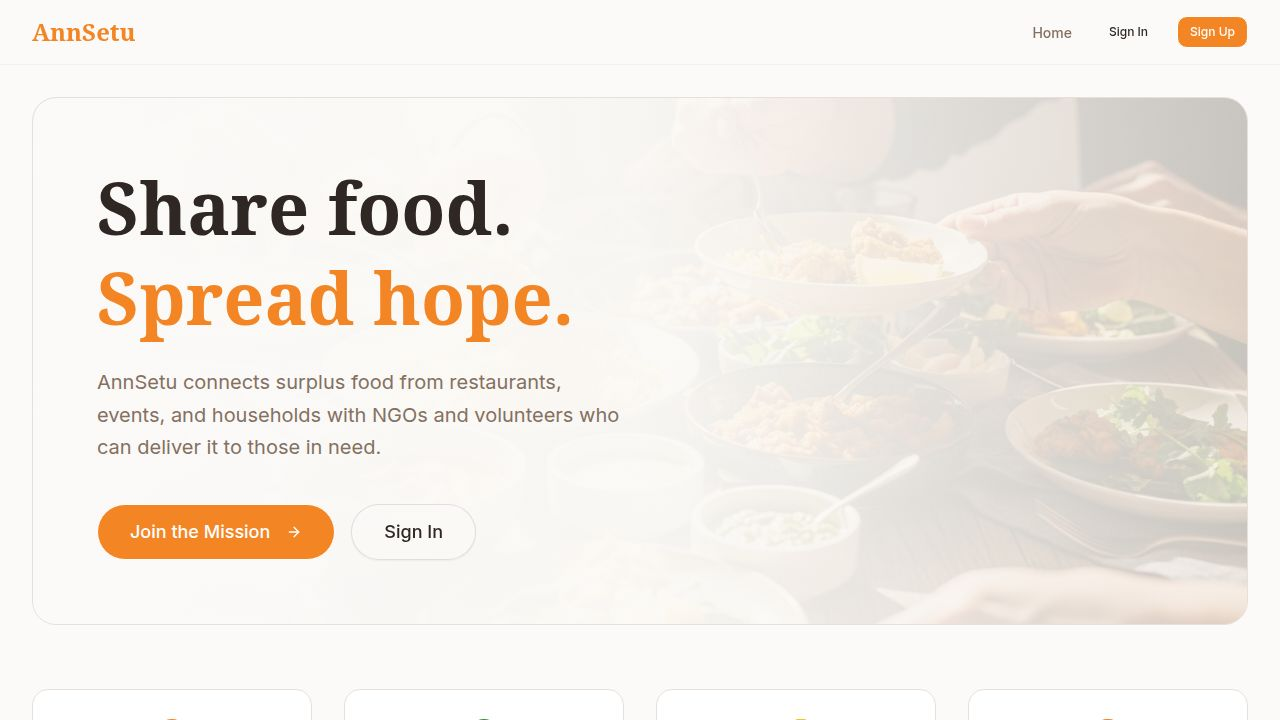
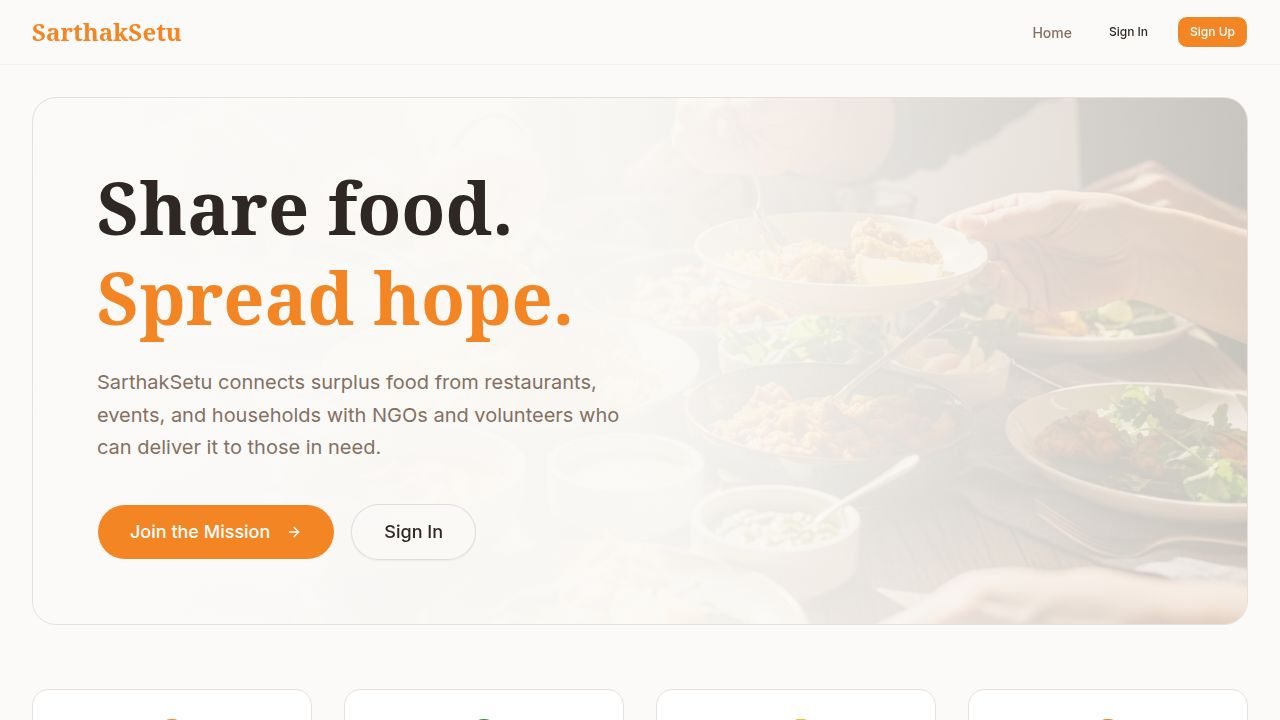
Update platform name and improve mobile menu functionality
Renames the platform from "AnnSetu" to "SarthakSetu" across all files and implements an auto-closing behavior for the mobile menu after an item is selected.

Replit-Commit-Author: Agent
Replit-Commit-Session-Id: ff53a62c-1c7f-46d5-a150-2e13e898db9c
Replit-Commit-Checkpoint-Type: full_checkpoint
Replit-Commit-Event-Id: 11cbb143-87f1-4f99-87b2-5fd91d0a6a15
Replit-Commit-Screenshot-Url: https://storage.googleapis.com/screenshot-production-us-central1/c71bff6f-552d-4e3a-8504-b6348c95ba29/ff53a62c-1c7f-46d5-a150-2e13e898db9c/KmV1yGm
Replit-Helium-Checkpoint-Created: true

Changed region(s): [[0.0625, 0.5194, 0.4688, 0.55], [0.0, 0.0306, 0.1562, 0.0611]]

diff --git a/artifacts/annsetu/src/components/layout.tsx b/artifacts/annsetu/src/components/layout.tsx
@@ -1,19 +1,21 @@
 import { Link, useLocation } from "wouter";
-import { useAuth, useUser, useClerk } from "@clerk/react";
+import { useAuth, useClerk } from "@clerk/react";
 import { Button } from "@/components/ui/button";
 import { Sheet, SheetContent, SheetTrigger } from "@/components/ui/sheet";
 import { Menu, LogOut, Map as MapIcon, Home, Heart, List, User } from "lucide-react";
 import { useGetMyProfile } from "@workspace/api-client-react";
+import { useState } from "react";
 
 export function Layout({ children }: { children: React.ReactNode }) {
   const { isSignedIn } = useAuth();
   const { signOut } = useClerk();
   const [, setLocation] = useLocation();
   const { data: profile } = useGetMyProfile(!!isSignedIn ? undefined : { query: { enabled: false } as any });
+  const [sheetOpen, setSheetOpen] = useState(false);
 
   const navigation = isSignedIn ? [
     { name: "Dashboard", href: "/dashboard", icon: Home },
-    ...(profile?.role === "donor" 
+    ...(profile?.role === "donor"
       ? [
           { name: "Donate Food", href: "/donate", icon: Heart },
           { name: "My Listings", href: "/my-donations", icon: List },
@@ -29,12 +31,17 @@ export function Layout({ children }: { children: React.ReactNode }) {
     { name: "Home", href: "/", icon: Home },
   ];
 
+  const handleNavClick = (href: string) => {
+    setSheetOpen(false);
+    setLocation(href);
+  };
+
   return (
     <div className="min-h-screen flex flex-col bg-background">
       <header className="sticky top-0 z-50 w-full border-b border-border/40 bg-background/95 backdrop-blur supports-[backdrop-filter]:bg-background/60">
         <div className="container flex h-16 items-center justify-between px-4 sm:px-8 max-w-7xl mx-auto">
           <div className="flex items-center gap-4">
-            <Sheet>
+            <Sheet open={sheetOpen} onOpenChange={setSheetOpen}>
               <SheetTrigger asChild>
                 <Button variant="ghost" size="icon" className="md:hidden">
                   <Menu className="h-5 w-5" />
@@ -44,18 +51,23 @@ export function Layout({ children }: { children: React.ReactNode }) {
               <SheetContent side="left" className="w-64 pr-0">
                 <nav className="flex flex-col gap-4 mt-8">
                   {navigation.map((item) => (
-                    <Link key={item.href} href={item.href}>
-                      <span className="flex items-center gap-3 text-lg font-medium text-muted-foreground hover:text-foreground cursor-pointer transition-colors">
-                        <item.icon className="h-5 w-5" />
-                        {item.name}
-                      </span>
-                    </Link>
+                    <span
+                      key={item.href}
+                      className="flex items-center gap-3 text-lg font-medium text-muted-foreground hover:text-foreground cursor-pointer transition-colors"
+                      onClick={() => handleNavClick(item.href)}
+                    >
+                      <item.icon className="h-5 w-5" />
+                      {item.name}
+                    </span>
                   ))}
                   {isSignedIn && (
-                    <Button 
-                      variant="ghost" 
+                    <Button
+                      variant="ghost"
                       className="justify-start px-0 text-lg font-medium text-destructive hover:text-destructive hover:bg-transparent"
-                      onClick={() => signOut({ redirectUrl: "/" })}
+                      onClick={() => {
+                        setSheetOpen(false);
+                        signOut({ redirectUrl: "/" });
+                      }}
                     >
                       <LogOut className="mr-3 h-5 w-5" />
                       Sign Out
@@ -66,7 +78,7 @@ export function Layout({ children }: { children: React.ReactNode }) {
             </Sheet>
             <Link href={isSignedIn ? "/dashboard" : "/"}>
               <span className="flex items-center gap-2 font-serif text-2xl font-bold text-primary cursor-pointer">
-                AnnSetu
+                SarthakSetu
               </span>
             </Link>
           </div>

diff --git a/artifacts/annsetu/index.html b/artifacts/annsetu/index.html
@@ -3,15 +3,15 @@
   <head>
     <meta charset="UTF-8" />
     <meta name="viewport" content="width=device-width, initial-scale=1.0, maximum-scale=1" />
-    <title>AnnSetu</title>
-    <meta name="description" content="AnnSetu — built on Replit. Update this description to reflect the app." />
+    <title>SarthakSetu</title>
+    <meta name="description" content="SarthakSetu — built on Replit. Update this description to reflect the app." />
     <meta name="robots" content="index, follow" />
-    <meta property="og:title" content="AnnSetu" />
-    <meta property="og:description" content="AnnSetu — built on Replit. Update this description to reflect the app." />
+    <meta property="og:title" content="SarthakSetu" />
+    <meta property="og:description" content="SarthakSetu — built on Replit. Update this description to reflect the app." />
     <meta property="og:type" content="website" />
     <meta name="twitter:card" content="summary_large_image" />
-    <meta name="twitter:title" content="AnnSetu" />
-    <meta name="twitter:description" content="AnnSetu — built on Replit. Update this description to reflect the app." />
+    <meta name="twitter:title" content="SarthakSetu" />
+    <meta name="twitter:description" content="SarthakSetu — built on Replit. Update this description to reflect the app." />
     <link rel="icon" type="image/svg+xml" href="/favicon.svg" />
     <link rel="preconnect" href="https://fonts.googleapis.com">
     <link rel="preconnect" href="https://fonts.gstatic.com" crossorigin>

diff --git a/artifacts/annsetu/src/App.tsx b/artifacts/annsetu/src/App.tsx
@@ -87,7 +87,7 @@ function SignInPage() {
       <div className="hidden lg:flex flex-col justify-between bg-[hsl(20,40%,12%)] p-12 text-white">
         <div>
           <div className="text-primary font-serif font-bold text-2xl mb-1">अन्नसेतु</div>
-          <div className="text-white/50 text-sm">AnnSetu — Bridge of Food</div>
+          <div className="text-white/50 text-sm">SarthakSetu — Bridge of Food</div>
         </div>
         <div>
           <blockquote className="text-3xl font-serif leading-snug mb-6 text-white/90">
@@ -129,14 +129,14 @@ function SignUpPage() {
       <div className="hidden lg:flex flex-col justify-between bg-gradient-to-br from-primary to-orange-600 p-12 text-white">
         <div>
           <div className="font-serif font-bold text-2xl mb-1">अन्नसेतु</div>
-          <div className="text-white/70 text-sm">AnnSetu — Bridge of Food</div>
+          <div className="text-white/70 text-sm">SarthakSetu — Bridge of Food</div>
         </div>
         <div className="flex flex-col gap-4">
           <h2 className="text-3xl font-serif font-bold leading-tight">
             Join thousands who<br />fight hunger every day
           </h2>
           <p className="text-white/80 text-sm leading-relaxed">
-            Whether you're a restaurant with surplus food, an NGO serving communities, or a volunteer with wheels — AnnSetu connects you to where you're needed most.
+            Whether you're a restaurant with surplus food, an NGO serving communities, or a volunteer with wheels — SarthakSetu connects you to where you're needed most.
           </p>
           <div className="grid grid-cols-1 gap-3 mt-2">
             {[

diff --git a/artifacts/annsetu/src/pages/onboarding.tsx b/artifacts/annsetu/src/pages/onboarding.tsx
@@ -528,7 +528,7 @@ function AdminForm({ onBack, onSubmit, isPending }: { onBack: () => void; onSubm
       <form onSubmit={form.handleSubmit(handleSubmit)} className="space-y-5">
         <div className="bg-purple-50 border border-purple-200 rounded-xl p-4">
           <p className="text-sm text-purple-800 font-medium">🔐 Admin Access</p>
-          <p className="text-xs text-purple-700 mt-1">Admin accounts require a valid access code from the AnnSetu operations team. Codes are stored and verified against our secure database.</p>
+          <p className="text-xs text-purple-700 mt-1">Admin accounts require a valid access code from the SarthakSetu operations team. Codes are stored and verified against our secure database.</p>
         </div>
         <div className="grid grid-cols-2 gap-4">
           <FormField control={form.control} name="name" render={({ field }) => (
@@ -616,7 +616,7 @@ export default function Onboarding() {
       {
         onSuccess: (data) => {
           queryClient.setQueryData(getGetMyProfileQueryKey(), data);
-          toast({ title: "Welcome to AnnSetu!", description: "Your profile is set up and ready." });
+          toast({ title: "Welcome to SarthakSetu!", description: "Your profile is set up and ready." });
           setLocation("/dashboard");
         },
         onError: () => {
@@ -641,7 +641,7 @@ export default function Onboarding() {
           Step {step === "role" ? "1" : "2"} of 2
         </div>
         <h1 className="text-3xl font-serif font-bold text-foreground mb-2">
-          {step === "role" ? "How will you use AnnSetu?" : `Setting up your ${selectedRole === "ngo" ? "NGO" : selectedRole} profile`}
+          {step === "role" ? "How will you use SarthakSetu?" : `Setting up your ${selectedRole === "ngo" ? "NGO" : selectedRole} profile`}
         </h1>
         <p className="text-muted-foreground">
           {step === "role"

diff --git a/artifacts/annsetu/src/pages/home.tsx b/artifacts/annsetu/src/pages/home.tsx
@@ -26,7 +26,7 @@ export default function Home() {
               <span className="text-primary">Spread hope.</span>
             </h1>
             <p className="text-lg md:text-xl text-muted-foreground leading-relaxed">
-              AnnSetu connects surplus food from restaurants, events, and households with NGOs and volunteers who can deliver it to those in need.
+              SarthakSetu connects surplus food from restaurants, events, and households with NGOs and volunteers who can deliver it to those in need.
             </p>
             <div className="flex flex-wrap gap-4 pt-4">
               <Link href="/sign-up">
@@ -75,7 +75,7 @@ export default function Home() {
       {/* How it works */}
       <section className="flex flex-col gap-12 items-center">
         <div className="text-center max-w-2xl mx-auto flex flex-col gap-4">
-          <h2 className="font-serif text-3xl md:text-4xl font-bold">How AnnSetu Works</h2>
+          <h2 className="font-serif text-3xl md:text-4xl font-bold">How SarthakSetu Works</h2>
           <p className="text-muted-foreground text-lg">A simple, transparent process to ensure surplus food reaches those who need it most.</p>
         </div>
 

diff --git a/artifacts/annsetu/src/pages/donate.tsx b/artifacts/annsetu/src/pages/donate.tsx
@@ -241,7 +241,7 @@ export default function Donate() {
             />
 
             <div className="flex items-center gap-2 bg-green-50 border border-green-200 rounded-xl px-4 py-2 text-green-800 text-sm font-medium">
-              🌿 AnnSetu lists only <strong>vegetarian food</strong> — all donations are 100% veg.
+              🌿 SarthakSetu lists only <strong>vegetarian food</strong> — all donations are 100% veg.
             </div>
 
             <FormField

diff --git a/replit.md b/replit.md
@@ -1,6 +1,6 @@
-# AnnSetu (अन्नसेतु)
+# SarthakSetu (सार्थकसेतु)
 
-AnnSetu is a food donation platform that connects surplus food donors (restaurants, hotels, caterers, households) with NGOs and volunteers to reduce food waste in India.
+SarthakSetu is a food donation platform that connects surplus food donors (restaurants, hotels, caterers, households) with NGOs and volunteers to reduce food waste in India.
 
 ## Run & Operate
 